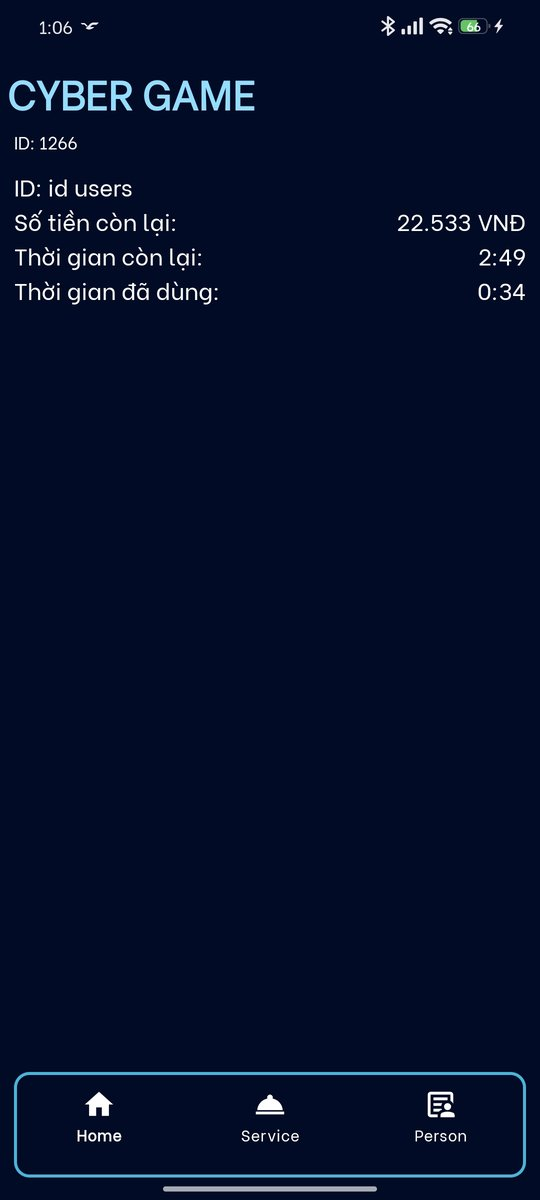
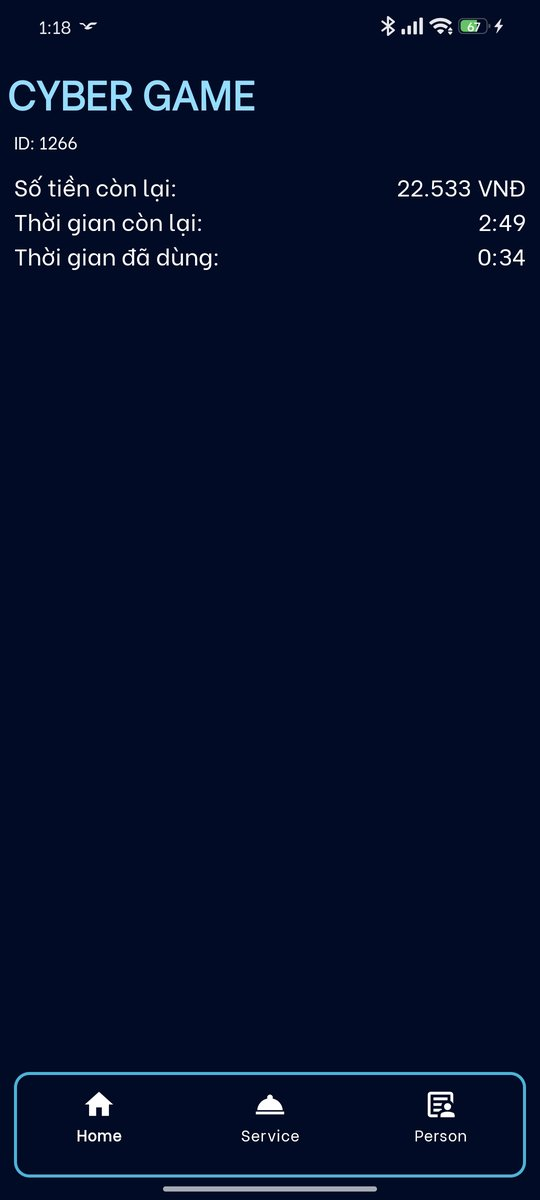
Them anh admin

diff --git a/README.md b/README.md
@@ -5,12 +5,13 @@
 ## Demo
 
 <p align="center">
-  <img src="doc/login.jpg" width="22%" alt="Đăng nhập">
-  <img src="doc/user_home.jpg" width="22%" alt="Trang chủ người chơi">
-  <img src="doc/service.jpg" width="22%" alt="Menu dịch vụ">
-  <img src="doc/person.jpg" width="22%" alt="Trang cá nhân">
+  <img src="doc/login.jpg" width="18%" alt="Đăng nhập">
+  <img src="doc/user_home.jpg" width="18%" alt="Trang chủ người chơi">
+  <img src="doc/service.jpg" width="18%" alt="Menu dịch vụ">
+  <img src="doc/person.jpg" width="18%" alt="Trang cá nhân">
+  <img src="doc/admin_home.jpg" width="18%" alt="Trang chủ quản trị viên">
 </p>
-<p align="center"><em>Đăng nhập · Trang chủ người chơi · Menu dịch vụ · Trang cá nhân</em></p>
+<p align="center"><em>Đăng nhập · Trang chủ người chơi · Menu dịch vụ · Trang cá nhân · Trang chủ quản trị viên</em></p>
 
 ## Tính năng
 
